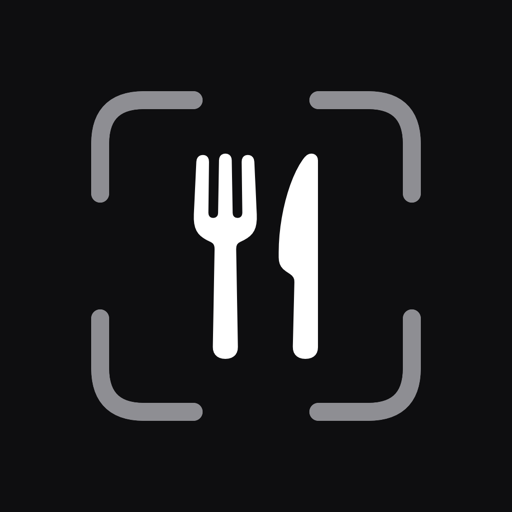
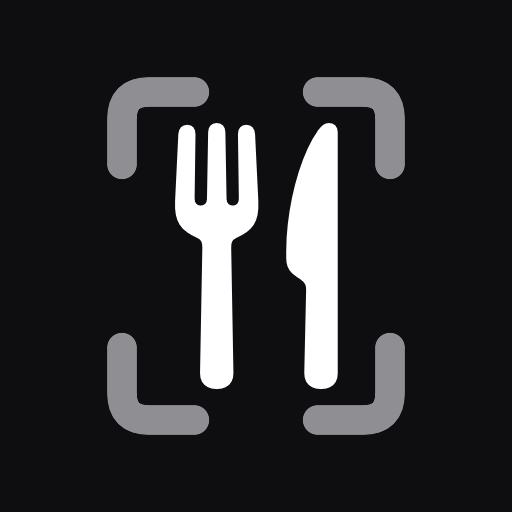
Retune the Eat IQ mark: bolder glyph, heavier brackets, portrait frame
Same proportions as the app's AppLogoMark; rendered by tools/logo-render.swift.

Claude-Session: https://claude.ai/code/session_01EgXivV9r2UeBUv5Z96ABD9

Changed region(s): [[0.1562, 0.125, 0.8438, 0.875], [0.1562, 0.5938, 0.4062, 0.875]]

diff --git a/index.html b/index.html
@@ -11,11 +11,11 @@
 <meta property="og:title" content="Eat IQ | Track your calories with just a picture">
 <meta property="og:description" content="Snap a photo, scan a barcode, or describe your meal. Eat IQ does the rest.">
 <meta property="og:image" content="https://geteatiq.com/assets/icon-512.png">
-<meta name="theme-color" content="#fffdf8">
+<meta name="theme-color" content="#ffffff">
 <style>
   :root{
-    --bg:#fffdf8; --bg2:#fdf8ee; --card:#ffffff; --ink:#111318; --ink2:#5b6170; --ink3:#8a90a0;
-    --line:#ebe7dd; --line2:#e2ddd0; --black:#0d0f14; --blue:#0a84ff;
+    --bg:#ffffff; --bg2:#f6f6f7; --card:#ffffff; --ink:#0b0b0f; --ink2:#5c5f66; --ink3:#8b8e95;
+    --line:#e9e9ec; --line2:#dcdce1; --black:#0b0b0f; --blue:#0a84ff;
     --pink:#e8336f; --green:#34c759; --teal:#30b0c7; --purple:#af52de;
     --max:1120px;
   }
@@ -31,10 +31,10 @@
   .badge.sm{height:36px}.badge.sm img{height:36px}
 
   /* nav */
-  nav{position:sticky;top:0;z-index:20;background:rgba(255,253,248,.85);backdrop-filter:saturate(180%) blur(16px);-webkit-backdrop-filter:saturate(180%) blur(16px)}
+  nav{position:sticky;top:0;z-index:20;background:rgba(255,255,255,.8);backdrop-filter:saturate(180%) blur(16px);-webkit-backdrop-filter:saturate(180%) blur(16px)}
   nav .wrap{display:flex;align-items:center;justify-content:space-between;height:70px}
   .brand{display:flex;align-items:center;gap:8px;font-weight:700;font-size:24px;letter-spacing:-.02em}
-  .brand img{width:30px;height:30px}
+  .brand img{width:32px;height:32px}
   .navlinks{display:flex;align-items:center;gap:32px;font-size:15px;font-weight:500;color:var(--ink)}
   .navlinks a{opacity:.8}.navlinks a:hover{opacity:1}
   @media (max-width:760px){.navlinks{display:none}}
@@ -51,21 +51,63 @@
   .cta-row{display:flex;align-items:center;gap:12px;flex-wrap:wrap}
   .cta-row .fine{font-size:13px;color:var(--ink3)}
 
-  .phones{position:relative;height:560px}
-  .phones img{position:absolute;width:270px;height:auto;filter:drop-shadow(0 24px 40px rgba(17,19,24,.22))}
-  .phones .p1{left:8%;top:40px;transform:rotate(-5deg)}
-  .phones .p2{right:4%;top:0;transform:rotate(4deg);z-index:2}
-  .phones .arrow{position:absolute;left:41%;top:14px;width:64px;height:auto;filter:none;transform:rotate(-20deg);z-index:3}
+  /* hero composition (designed, not screenshots) */
+  .stage{position:relative;height:600px}
+  .stage::before{content:"";position:absolute;inset:6% -6% 2% -6%;background:radial-gradient(60% 55% at 55% 50%,rgba(11,11,15,.07),rgba(11,11,15,0) 70%);border-radius:40px}
+  .phone{position:absolute;left:8%;top:22px;width:296px;height:604px;border-radius:52px;background:#0f1013;padding:11px;box-shadow:0 40px 70px rgba(11,11,15,.30),0 2px 0 rgba(255,255,255,.06) inset;transform:rotate(-6deg)}
+  .phone .screen{position:relative;width:100%;height:100%;border-radius:42px;overflow:hidden;background:#000}
+  .phone .screen img{width:100%;height:100%;object-fit:cover}
+  .phone .shade{position:absolute;inset:0;background:linear-gradient(180deg,rgba(0,0,0,.55) 0%,rgba(0,0,0,0) 28%,rgba(0,0,0,0) 62%,rgba(0,0,0,.6) 100%)}
+  .phone .island{position:absolute;top:12px;left:50%;transform:translateX(-50%);width:92px;height:28px;border-radius:16px;background:#000}
+  .phone .top{position:absolute;top:56px;left:0;right:0;display:flex;align-items:center;justify-content:space-between;padding:0 18px;color:#fff}
+  .phone .top .c{width:34px;height:34px;border-radius:50%;background:rgba(255,255,255,.18);backdrop-filter:blur(8px);display:grid;place-items:center;font-size:15px}
+  .phone .top .t{display:flex;align-items:center;gap:6px;font-weight:700;font-size:16px;letter-spacing:-.01em;text-shadow:0 1px 6px rgba(0,0,0,.5)}
+  .phone .top .t img{width:18px;height:18px}
+  .phone .brackets{position:absolute;left:34px;right:34px;top:150px;height:280px}
+  .phone .brackets i{position:absolute;width:44px;height:44px;border:3px solid #fff;border-radius:10px}
+  .phone .brackets i:nth-child(1){left:0;top:0;border-right:0;border-bottom:0;border-radius:10px 0 0 0}
+  .phone .brackets i:nth-child(2){right:0;top:0;border-left:0;border-bottom:0;border-radius:0 10px 0 0}
+  .phone .brackets i:nth-child(3){left:0;bottom:0;border-right:0;border-top:0;border-radius:0 0 0 10px}
+  .phone .brackets i:nth-child(4){right:0;bottom:0;border-left:0;border-top:0;border-radius:0 0 10px 0}
+  .phone .modes{position:absolute;left:14px;right:14px;bottom:96px;display:flex;gap:6px}
+  .phone .modes span{flex:1;text-align:center;font-size:11.5px;font-weight:600;color:#fff;background:rgba(255,255,255,.18);backdrop-filter:blur(10px);border-radius:14px;padding:10px 0}
+  .phone .modes span.on{background:#fff;color:#0b0b0f}
+  .phone .shutter{position:absolute;left:50%;bottom:22px;transform:translateX(-50%);width:62px;height:62px;border-radius:50%;background:#fff;box-shadow:0 0 0 4px rgba(255,255,255,.35)}
+  .phone .home{position:absolute;left:50%;bottom:8px;transform:translateX(-50%);width:110px;height:4px;border-radius:2px;background:rgba(255,255,255,.7)}
+
+  .result{position:absolute;right:2%;top:70px;width:250px;background:#fff;border-radius:24px;padding:16px 16px 14px;box-shadow:0 30px 60px rgba(11,11,15,.18),0 0 0 1px rgba(11,11,15,.05);transform:rotate(4deg)}
+  .result .ph{height:118px;border-radius:16px;overflow:hidden;margin-bottom:12px}
+  .result .ph img{width:100%;height:100%;object-fit:cover;object-position:center 40%}
+  .result h4{margin:0 0 2px;font-size:16px;font-weight:700;letter-spacing:-.01em}
+  .result .cal{display:flex;align-items:baseline;gap:6px;margin-bottom:10px}
+  .result .cal b{font-size:26px;font-weight:800;color:var(--pink);letter-spacing:-.02em}
+  .result .cal span{font-size:12px;color:var(--ink3);font-weight:600}
+  .result .m{display:grid;grid-template-columns:repeat(3,1fr);gap:6px}
+  .result .m div{background:#f6f6f7;border-radius:12px;padding:8px 6px;text-align:center}
+  .result .m .k{font-size:10.5px;color:var(--ink3);font-weight:600}
+  .result .m .v{font-size:15px;font-weight:800;letter-spacing:-.01em}
+  .result .m .p .v{color:var(--green)}.result .m .c .v{color:var(--teal)}.result .m .f .v{color:var(--purple)}
+  .chip{position:absolute;background:#fff;border-radius:999px;padding:8px 12px;font-size:12.5px;font-weight:700;box-shadow:0 12px 28px rgba(11,11,15,.16),0 0 0 1px rgba(11,11,15,.05);display:flex;align-items:center;gap:8px;white-space:nowrap}
+  .chip small{font-weight:600;color:var(--ink3)}
+  .chip.c1{left:0;top:200px;transform:rotate(-6deg)}
+  .chip.c2{left:2%;top:430px;transform:rotate(-4deg)}
+  .chip.c3{right:0;top:390px;transform:rotate(5deg)}
   @media (max-width:900px){
     .hero{padding:36px 0 8px}
     .hero .wrap{grid-template-columns:1fr}
     .meet{font-size:28px}h1{font-size:36px}
-    .phones{height:520px;margin-top:8px}
-    .phones img{width:230px}
-    .phones .p1{left:2%;top:30px}.phones .p2{right:2%}
-    .phones .arrow{left:40%;top:6px;width:52px}
+    .stage{height:560px;margin-top:10px}
+    .phone{left:4%;width:250px;height:512px;border-radius:46px}
+    .phone .brackets{top:120px;height:230px}
+    .result{right:0;top:40px;width:210px}
+    .chip.c1{top:150px}.chip.c2{top:380px}.chip.c3{top:350px}
   }
-  @media (max-width:420px){.phones{height:440px}.phones img{width:190px}.phones .arrow{top:190px;width:44px}}
+  @media (max-width:420px){
+    .stage{height:520px}
+    .phone{left:0;width:220px;height:452px}
+    .result{width:190px;top:30px}
+    .chip.c1{display:none}.chip.c2{top:330px}.chip.c3{top:320px}
+  }
 
   /* sections */
   section{padding:80px 0}
@@ -74,20 +116,40 @@
   .sec-h p{color:var(--ink2);font-size:18px;margin:0}
 
   /* include */
+  /* meal-breakdown phone (features section) */
+  .phone.still{position:relative;left:auto;top:auto;transform:none;margin:0 auto;box-shadow:0 30px 60px rgba(11,11,15,.18)}
+  .screen.light{background:#f5f6f8}
+  .island.dark{background:#0f1013;z-index:2}
+  .hero-ph{height:230px;overflow:hidden}
+  .hero-ph img{width:100%;height:100%;object-fit:cover}
+  .sheet{position:absolute;left:0;right:0;top:206px;bottom:0;background:#f5f6f8;border-radius:28px 28px 0 0;padding:16px 16px 0}
+  .sheet .time{font-size:11px;color:var(--ink3);font-weight:600}
+  .sheet .ttl{font-size:19px;font-weight:800;letter-spacing:-.02em;margin:2px 0 10px}
+  .rows{background:#fff;border-radius:16px;padding:2px 12px;box-shadow:0 1px 2px rgba(0,0,0,.04)}
+  .row{display:flex;align-items:center;gap:8px;font-size:12.5px;font-weight:600;padding:9px 0;border-top:1px solid #eef0f3}
+  .row:first-child{border-top:0}
+  .row b{margin-left:auto;font-weight:700}
+  .row small{font-size:10px;color:var(--ink3);font-weight:600}
+  .row .dot{width:8px;height:8px;border-radius:50%;display:inline-block}
+  .items-h{display:flex;align-items:center;gap:6px;font-size:11px;font-weight:700;color:var(--ink2);margin:12px 0 6px}
+  .items-h span{background:#e9eaee;border-radius:999px;padding:1px 7px;font-size:10px}
+  .rows.items .row b{color:var(--pink)}
+  .fix{margin-top:12px;background:#0b0b0f;color:#fff;border-radius:999px;text-align:center;padding:11px;font-size:13px;font-weight:700}
+
   .include{display:grid;grid-template-columns:.9fr 1.1fr;gap:48px;align-items:center}
-  .include .shot{width:min(100%,320px);margin:0 auto;filter:drop-shadow(0 24px 40px rgba(17,19,24,.18))}
+  
   .cards{display:grid;gap:12px}
   .fcard{background:var(--card);border:1px solid var(--line);border-radius:16px;padding:20px 22px;box-shadow:0 1px 2px rgba(0,0,0,.03)}
-  .fcard.on{background:#f4f6fb;border-color:#c9d3e6;box-shadow:0 0 0 3px rgba(10,132,255,.08)}
+  .fcard.on{background:#f6f6f7;border-color:#d6d7dc;box-shadow:0 8px 24px rgba(11,11,15,.06)}
   .fcard h3{margin:0 0 6px;font-size:17px;font-weight:700;letter-spacing:-.01em}
   .fcard p{margin:0;color:var(--ink2);font-size:15.5px}
-  @media (max-width:860px){.include{grid-template-columns:1fr;gap:28px}.include .shot{width:min(58%,240px)}}
+  @media (max-width:860px){.include{grid-template-columns:1fr;gap:28px}.phone.still{width:250px;height:512px;border-radius:46px}}
 
   /* why */
   .why{background:var(--bg2);border-top:1px solid var(--line);border-bottom:1px solid var(--line)}
   .why3{display:grid;grid-template-columns:repeat(3,1fr);gap:16px}
   .wcard{background:var(--card);border:1px solid var(--line);border-radius:18px;padding:26px 24px;box-shadow:0 1px 2px rgba(0,0,0,.03)}
-  .wcard .ic{width:44px;height:44px;border-radius:12px;background:#f1f3f8;display:grid;place-items:center;margin-bottom:16px}
+  .wcard .ic{width:44px;height:44px;border-radius:12px;background:#f0f0f2;display:grid;place-items:center;margin-bottom:16px}
   .wcard .ic svg{width:22px;height:22px;stroke:var(--ink);fill:none;stroke-width:1.8;stroke-linecap:round;stroke-linejoin:round}
   .wcard h3{margin:0 0 6px;font-size:18px;font-weight:700;letter-spacing:-.01em}
   .wcard p{margin:0;color:var(--ink2);font-size:15.5px}
@@ -131,7 +193,7 @@
 
 <nav>
   <div class="wrap">
-    <a class="brand" href="#top"><img src="assets/mark-black.png" alt="" width="30" height="30">Eat IQ</a>
+    <a class="brand" href="#top"><img src="assets/mark-black.png" alt="" width="32" height="32">Eat IQ</a>
     <div class="navlinks">
       <a href="#include">Features</a>
       <a href="#faq">FAQ</a>
@@ -153,10 +215,26 @@
         <span class="fine">Free to download · iPhone</span>
       </div>
     </div>
-    <div class="phones" aria-hidden="true">
-      <img class="p1" src="assets/phone-scan.png" alt="" width="675" height="1380" fetchpriority="high">
-      <img class="p2" src="assets/phone-meal.png" alt="" width="675" height="1380" fetchpriority="high">
-    </div>
+    <div class="stage" aria-hidden="true">
+      <div class="phone"><div class="screen">
+        <img src="assets/food-hero.jpg" alt="">
+        <div class="shade"></div>
+        <div class="island"></div>
+        <div class="top"><span class="c">✕</span><span class="t"><img src="assets/mark-white.png" alt="">Eat IQ</span><span class="c">?</span></div>
+        <div class="brackets"><i></i><i></i><i></i><i></i></div>
+        <div class="modes"><span class="on">Scan Food</span><span>Barcode</span><span>Food label</span></div>
+        <div class="shutter"></div>
+        <div class="home"></div>
+      </div></div>
+      <div class="result">
+        <div class="ph"><img src="assets/food-hero.jpg" alt=""></div>
+        <h4>Salmon rice bowl</h4>
+        <div class="cal"><b>621</b><span>CALORIES</span></div>
+        <div class="m"><div class="p"><div class="k">Protein</div><div class="v">52g</div></div><div class="c"><div class="k">Carbs</div><div class="v">38g</div></div><div class="f"><div class="k">Fat</div><div class="v">26g</div></div></div>
+      </div>
+      <div class="chip c1">Salmon <small>380 cal</small></div>
+      <div class="chip c2">Rice <small>170 cal</small></div>
+      <div class="chip c3">Avocado <small>71 cal</small></div>
   </div>
 </header>
 
@@ -164,9 +242,30 @@
   <div class="wrap">
     <div class="sec-h"><h2>What does Eat IQ include?</h2></div>
     <div class="include">
-      <img class="shot" src="assets/phone-meal.png" alt="A scanned club sandwich broken into bread, bacon, lettuce, tomato and chips with calories per item" width="675" height="1380" loading="lazy">
+      <div class="phone still" aria-hidden="true"><div class="screen light">
+        <div class="island dark"></div>
+        <div class="hero-ph"><img src="assets/food-hero.jpg" alt=""></div>
+        <div class="sheet">
+          <div class="time">12:41 PM</div>
+          <div class="ttl">Salmon rice bowl</div>
+          <div class="rows">
+            <div class="row"><span class="dot" style="background:var(--pink)"></span>Calories<b>621 <small>cal</small></b></div>
+            <div class="row"><span class="dot" style="background:var(--green)"></span>Protein<b>52 <small>g</small></b></div>
+            <div class="row"><span class="dot" style="background:var(--teal)"></span>Carbs<b>38 <small>g</small></b></div>
+            <div class="row"><span class="dot" style="background:var(--purple)"></span>Fat<b>26 <small>g</small></b></div>
+          </div>
+          <div class="items-h">Items <span>4</span></div>
+          <div class="rows items">
+            <div class="row">Salmon <small>150g</small><b>380 <small>cal</small></b></div>
+            <div class="row">Jasmine rice <small>120g</small><b>170 <small>cal</small></b></div>
+            <div class="row">Avocado <small>45g</small><b>71 <small>cal</small></b></div>
+            <div class="row">Arugula &amp; lemon <small>30g</small><b>0 <small>cal</small></b></div>
+          </div>
+          <div class="fix">✎ Fix results</div>
+        </div>
+      </div></div>
       <div class="cards">
-        <div class="fcard on"><h3>Track your food with just a picture</h3><p>Snap a photo and Eat IQ measures the portion, then breaks the plate into its parts — bread, bacon, lettuce, tomato, chips — with calories, protein, carbs and fat for each.</p></div>
+        <div class="fcard on"><h3>Track your food with just a picture</h3><p>Snap a photo and Eat IQ measures the portion, then breaks the plate into its parts — salmon, rice, avocado, greens — with calories, protein, carbs and fat for each.</p></div>
         <div class="fcard"><h3>Every ingredient is editable</h3><p>When something looks off, fix that one line instead of throwing out the estimate. Retune portions in grams, ounces, cups or the food's own unit and the macros follow.</p></div>
         <div class="fcard"><h3>Barcodes, labels, search, voice</h3><p>Scan a barcode or a nutrition label. Search packaged brands, restaurant menu items and whole foods. Type or say "two eggs and toast" and get the same breakdown.</p></div>
         <div class="fcard"><h3>Progress, streaks and Apple Health</h3><p>Charts against your goal by week, month or year. Streaks earned from what you actually logged. Health sync that carries your edits and deletes across.</p></div>

diff --git a/privacy.html b/privacy.html
@@ -30,7 +30,7 @@
   nav{position:sticky;top:0;z-index:20;background:rgba(255,253,248,.85);backdrop-filter:saturate(180%) blur(16px);-webkit-backdrop-filter:saturate(180%) blur(16px)}
   nav .wrap{display:flex;align-items:center;justify-content:space-between;height:70px}
   .brand{display:flex;align-items:center;gap:8px;font-weight:700;font-size:24px;letter-spacing:-.02em}
-  .brand img{width:30px;height:30px}
+  .brand img{width:32px;height:32px}
   .navlinks{display:flex;align-items:center;gap:32px;font-size:15px;font-weight:500;color:var(--ink)}
   .navlinks a{opacity:.8}.navlinks a:hover{opacity:1}
   @media (max-width:760px){.navlinks{display:none}}
@@ -138,7 +138,7 @@
 <body>
 <nav>
   <div class="wrap">
-    <a class="brand" href="index.html"><img src="assets/mark-black.png" alt="" width="30" height="30">Eat IQ</a>
+    <a class="brand" href="index.html"><img src="assets/mark-black.png" alt="" width="32" height="32">Eat IQ</a>
     <div class="navlinks">
       <a href="index.html#include">Features</a>
       <a href="index.html#faq">FAQ</a>

diff --git a/support.html b/support.html
@@ -30,7 +30,7 @@
   nav{position:sticky;top:0;z-index:20;background:rgba(255,253,248,.85);backdrop-filter:saturate(180%) blur(16px);-webkit-backdrop-filter:saturate(180%) blur(16px)}
   nav .wrap{display:flex;align-items:center;justify-content:space-between;height:70px}
   .brand{display:flex;align-items:center;gap:8px;font-weight:700;font-size:24px;letter-spacing:-.02em}
-  .brand img{width:30px;height:30px}
+  .brand img{width:32px;height:32px}
   .navlinks{display:flex;align-items:center;gap:32px;font-size:15px;font-weight:500;color:var(--ink)}
   .navlinks a{opacity:.8}.navlinks a:hover{opacity:1}
   @media (max-width:760px){.navlinks{display:none}}
@@ -138,7 +138,7 @@
 <body>
 <nav>
   <div class="wrap">
-    <a class="brand" href="index.html"><img src="assets/mark-black.png" alt="" width="30" height="30">Eat IQ</a>
+    <a class="brand" href="index.html"><img src="assets/mark-black.png" alt="" width="32" height="32">Eat IQ</a>
     <div class="navlinks">
       <a href="index.html#include">Features</a>
       <a href="index.html#faq">FAQ</a>

diff --git a/terms.html b/terms.html
@@ -30,7 +30,7 @@
   nav{position:sticky;top:0;z-index:20;background:rgba(255,253,248,.85);backdrop-filter:saturate(180%) blur(16px);-webkit-backdrop-filter:saturate(180%) blur(16px)}
   nav .wrap{display:flex;align-items:center;justify-content:space-between;height:70px}
   .brand{display:flex;align-items:center;gap:8px;font-weight:700;font-size:24px;letter-spacing:-.02em}
-  .brand img{width:30px;height:30px}
+  .brand img{width:32px;height:32px}
   .navlinks{display:flex;align-items:center;gap:32px;font-size:15px;font-weight:500;color:var(--ink)}
   .navlinks a{opacity:.8}.navlinks a:hover{opacity:1}
   @media (max-width:760px){.navlinks{display:none}}
@@ -138,7 +138,7 @@
 <body>
 <nav>
   <div class="wrap">
-    <a class="brand" href="index.html"><img src="assets/mark-black.png" alt="" width="30" height="30">Eat IQ</a>
+    <a class="brand" href="index.html"><img src="assets/mark-black.png" alt="" width="32" height="32">Eat IQ</a>
     <div class="navlinks">
       <a href="index.html#include">Features</a>
       <a href="index.html#faq">FAQ</a>
